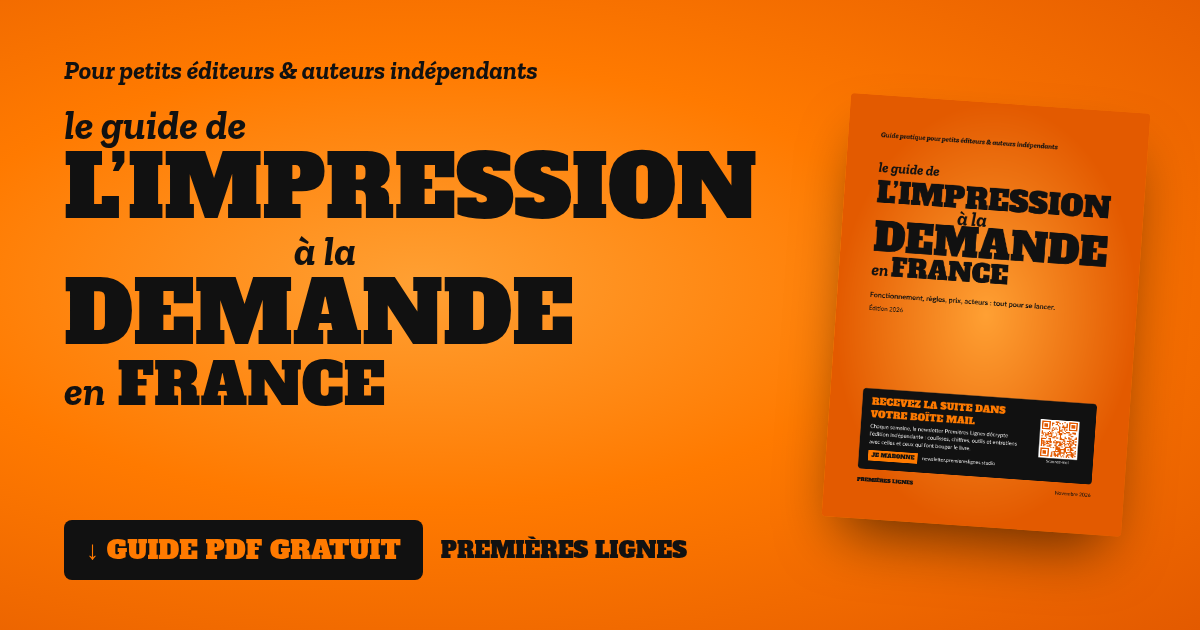
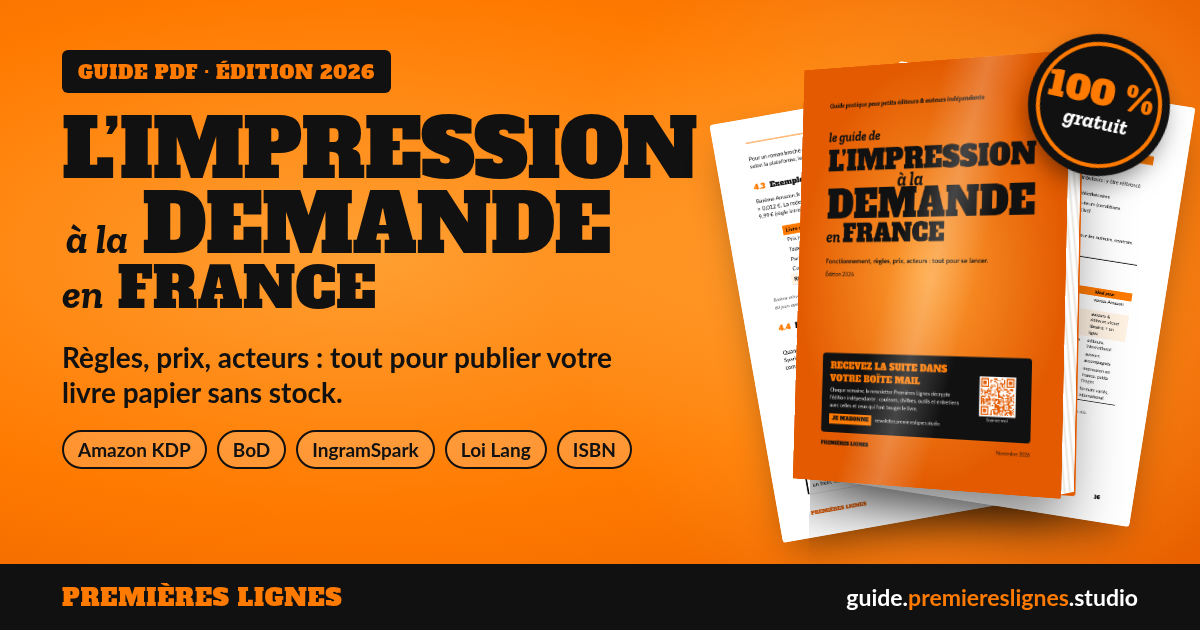
Nouvelle image Open Graph : livre 3D, pages intérieures, pastille gratuit, bandeau de marque

diff --git a/site/og-image.html b/site/og-image.html
@@ -1,7 +1,9 @@
 <!doctype html>
 <!-- Modèle de l'image d'aperçu réseaux sociaux (1200×630).
      Rendu en PNG par « make site » via Chrome headless → docs/og-image.png.
-     Chemins relatifs à docs/ (le fichier y est copié avant le rendu). -->
+     Le fichier est copié dans docs/ avant le rendu : chemins relatifs à docs/.
+     Images utilisées : couverture.png (couverture), _og-a.png / _og-b.png
+     (pages intérieures, générées depuis le PDF, cf. OG_PAGES dans le Makefile). -->
 <html lang="fr">
 <head>
 <meta charset="utf-8">
@@ -9,52 +11,127 @@
   @font-face { font-family: "Alfa Slab One"; src: url("fonts/AlfaSlabOne-Regular.ttf"); }
   @font-face { font-family: "Zilla Slab"; font-style: italic; font-weight: 700; src: url("fonts/ZillaSlab-BoldItalic.ttf"); }
   @font-face { font-family: "Lato"; font-weight: 700; src: url("fonts/Lato-Bold.ttf"); }
-  * { box-sizing: border-box; margin: 0; }
+  @font-face { font-family: "Lato"; font-weight: 400; src: url("fonts/Lato-Regular.ttf"); }
+
+  :root { --orange:#FF7A00; --clair:#FFA033; --fonce:#E35A00; --noir:#111; }
+  * { box-sizing: border-box; margin: 0; padding: 0; }
   html, body { width: 1200px; height: 630px; overflow: hidden; }
   body {
-    position: relative; color: #111;
-    background: radial-gradient(ellipse at 35% 45%, #FFA033 0%, #FF7A00 45%, #E35A00 100%);
-    font-family: "Lato", sans-serif;
+    position: relative; color: var(--noir); font-family: "Lato", sans-serif;
+    background:
+      radial-gradient(circle at 78% 42%, rgba(255,190,90,.55) 0%, rgba(255,190,90,0) 38%),
+      radial-gradient(ellipse at 30% 40%, var(--clair) 0%, var(--orange) 48%, var(--fonce) 100%);
   }
-  .text { position: absolute; left: 64px; top: 54px; width: 720px; }
-  .kicker { font: italic 700 26px "Zilla Slab", serif; margin-bottom: 18px; }
-  h1 { font-family: "Alfa Slab One", serif; font-weight: 400; text-transform: uppercase; line-height: .98; }
-  .liaison { display: block; font: italic 700 42px/1 "Zilla Slab", serif; text-transform: none; }
-  .big { display: block; font-size: 86px; }
-  .indent { padding-left: 230px; }
-  .line { display: flex; align-items: baseline; gap: 12px; }
-  .mid { font-size: 58px; }
-  .badge {
-    position: absolute; left: 64px; bottom: 50px;
-    display: flex; align-items: center; gap: 18px;
+
+  /* ---------- Colonne texte ---------- */
+  .text { position: absolute; left: 62px; top: 50px; width: 600px; }
+  .tag {
+    display: inline-block; background: var(--noir); color: var(--orange);
+    font: 400 19px "Alfa Slab One", serif; letter-spacing: .04em; text-transform: uppercase;
+    padding: 9px 16px 8px; border-radius: 6px; margin-bottom: 20px;
   }
-  .badge .pill {
-    background: #111; color: #FF7A00; font: 400 26px "Alfa Slab One", serif;
-    text-transform: uppercase; padding: 12px 22px; border-radius: 8px;
+  h1 { font-family: "Alfa Slab One", serif; font-weight: 400; text-transform: uppercase; line-height: .94; }
+  h1 .big { display: block; font-size: 80px; letter-spacing: -.01em; }
+  h1 .liaison { font: italic 700 42px/1 "Zilla Slab", serif; text-transform: none; }
+  h1 .row { display: flex; align-items: baseline; gap: 14px; }
+  h1 .row.indent { padding-left: 4px; }
+  h1 .mid { font-size: 56px; }
+  .lead { margin-top: 24px; font: 700 28px/1.25 "Lato", sans-serif; max-width: 560px; }
+  .chips { display: flex; flex-wrap: wrap; gap: 10px; margin-top: 20px; }
+  .chips span {
+    font: 700 19px "Lato", sans-serif; padding: 6px 14px; border-radius: 999px;
+    border: 2.5px solid var(--noir); background: rgba(255,255,255,.18);
   }
-  .badge .brand { font: 400 22px "Alfa Slab One", serif; text-transform: uppercase; }
-  .cover {
-    position: absolute; right: 64px; top: 50%; width: 300px;
-    transform: translateY(-50%) rotate(4deg);
-    border-radius: 4px; box-shadow: 0 30px 60px -18px rgba(0,0,0,.6);
+
+  /* ---------- Visuel : pages en éventail + livre 3D ---------- */
+  .stage { position: absolute; right: 56px; top: 52px; width: 400px; height: 470px; }
+  .sheet {
+    position: absolute; width: 300px; height: 424px; background: #fff;
+    border-radius: 3px; overflow: hidden; box-shadow: 0 18px 40px -12px rgba(0,0,0,.45);
   }
+  .sheet img { width: 100%; height: 100%; object-fit: cover; object-position: top; }
+  .sheet.a { left: 0px; top: 44px; transform: rotate(-10deg); }
+  .sheet.b { left: 120px; top: 30px; transform: rotate(9deg); }
+
+  .book-wrap { position: absolute; left: 40px; top: 10px; perspective: 1500px; }
+  .book {
+    position: relative; width: 300px; height: 424px;
+    transform-style: preserve-3d; transform: rotateY(-28deg) rotateX(3deg);
+  }
+  .book img.cover {
+    position: absolute; inset: 0; width: 300px; height: 424px;
+    transform: translateZ(17px); border-radius: 0 3px 3px 0;
+  }
+  /* Tranche des pages (côté droit) */
+  .book::before {
+    content: ""; position: absolute; left: 0; top: 4px; width: 32px; height: 416px;
+    transform: translateX(283px) rotateY(90deg);
+    background: repeating-linear-gradient(90deg, #fff 0 2px, #e9e4dc 2px 3px);
+  }
+  /* Quatrième de couverture + ombre portée */
+  .book::after {
+    content: ""; position: absolute; inset: 0; transform: translateZ(-17px);
+    background: var(--fonce); border-radius: 0 3px 3px 0;
+    box-shadow: -18px 22px 60px 6px rgba(0,0,0,.5);
+  }
+  /* Reflet sur la couverture */
+  .shine {
+    position: absolute; inset: 0; transform: translateZ(17.5px); pointer-events: none;
+    background: linear-gradient(105deg, rgba(255,255,255,0) 40%, rgba(255,255,255,.22) 52%, rgba(255,255,255,0) 64%);
+  }
+
+  /* Pastille « gratuit » */
+  .sticker {
+    position: absolute; right: -26px; top: -18px; z-index: 5;
+    width: 142px; height: 142px; border-radius: 50%;
+    background: var(--noir); color: var(--orange);
+    display: flex; flex-direction: column; align-items: center; justify-content: center;
+    transform: rotate(12deg); box-shadow: 0 12px 28px -8px rgba(0,0,0,.6);
+    outline: 4px solid var(--orange); outline-offset: -12px;
+  }
+  .sticker b { font: 400 34px/1 "Alfa Slab One", serif; }
+  .sticker i { font: italic 700 22px/1.1 "Zilla Slab", serif; color: #fff; }
+
+  /* ---------- Bandeau de marque ---------- */
+  .band {
+    position: absolute; left: 0; right: 0; bottom: 0; height: 66px;
+    background: var(--noir); display: flex; align-items: center; justify-content: space-between;
+    padding: 0 62px;
+  }
+  .band .brand { font: 400 24px "Alfa Slab One", serif; color: var(--orange); text-transform: uppercase; letter-spacing: .03em; }
+  .band .url { font: 700 23px "Lato", sans-serif; color: #fff; }
+  .band .url span { color: var(--orange); }
 </style>
 </head>
 <body>
   <div class="text">
-    <p class="kicker">Pour petits éditeurs &amp; auteurs indépendants</p>
+    <span class="tag">Guide PDF · Édition 2026</span>
     <h1>
-      <span class="liaison">le guide de</span>
       <span class="big">L’impression</span>
-      <span class="liaison indent">à la</span>
-      <span class="big">demande</span>
-      <span class="line"><span class="liaison">en</span><span class="mid">France</span></span>
+      <span class="row indent"><span class="liaison">à la</span><span class="big">demande</span></span>
+      <span class="row"><span class="liaison">en</span><span class="mid">France</span></span>
     </h1>
+    <p class="lead">Règles, prix, acteurs : tout pour publier votre livre papier sans stock.</p>
+    <div class="chips">
+      <span>Amazon KDP</span><span>BoD</span><span>IngramSpark</span><span>Loi Lang</span><span>ISBN</span>
+    </div>
   </div>
-  <div class="badge">
-    <span class="pill">↓ Guide PDF gratuit</span>
+
+  <div class="stage">
+    <div class="sheet a"><img src="_og-a.png" alt=""></div>
+    <div class="sheet b"><img src="_og-b.png" alt=""></div>
+    <div class="book-wrap">
+      <div class="book">
+        <img class="cover" src="couverture.png" alt="">
+        <div class="shine"></div>
+      </div>
+    </div>
+    <div class="sticker"><b>100 %</b><i>gratuit</i></div>
+  </div>
+
+  <div class="band">
     <span class="brand">Premières Lignes</span>
+    <span class="url">guide.<span>premiereslignes</span>.studio</span>
   </div>
-  <img class="cover" src="couverture.png" alt="">
 </body>
 </html>
